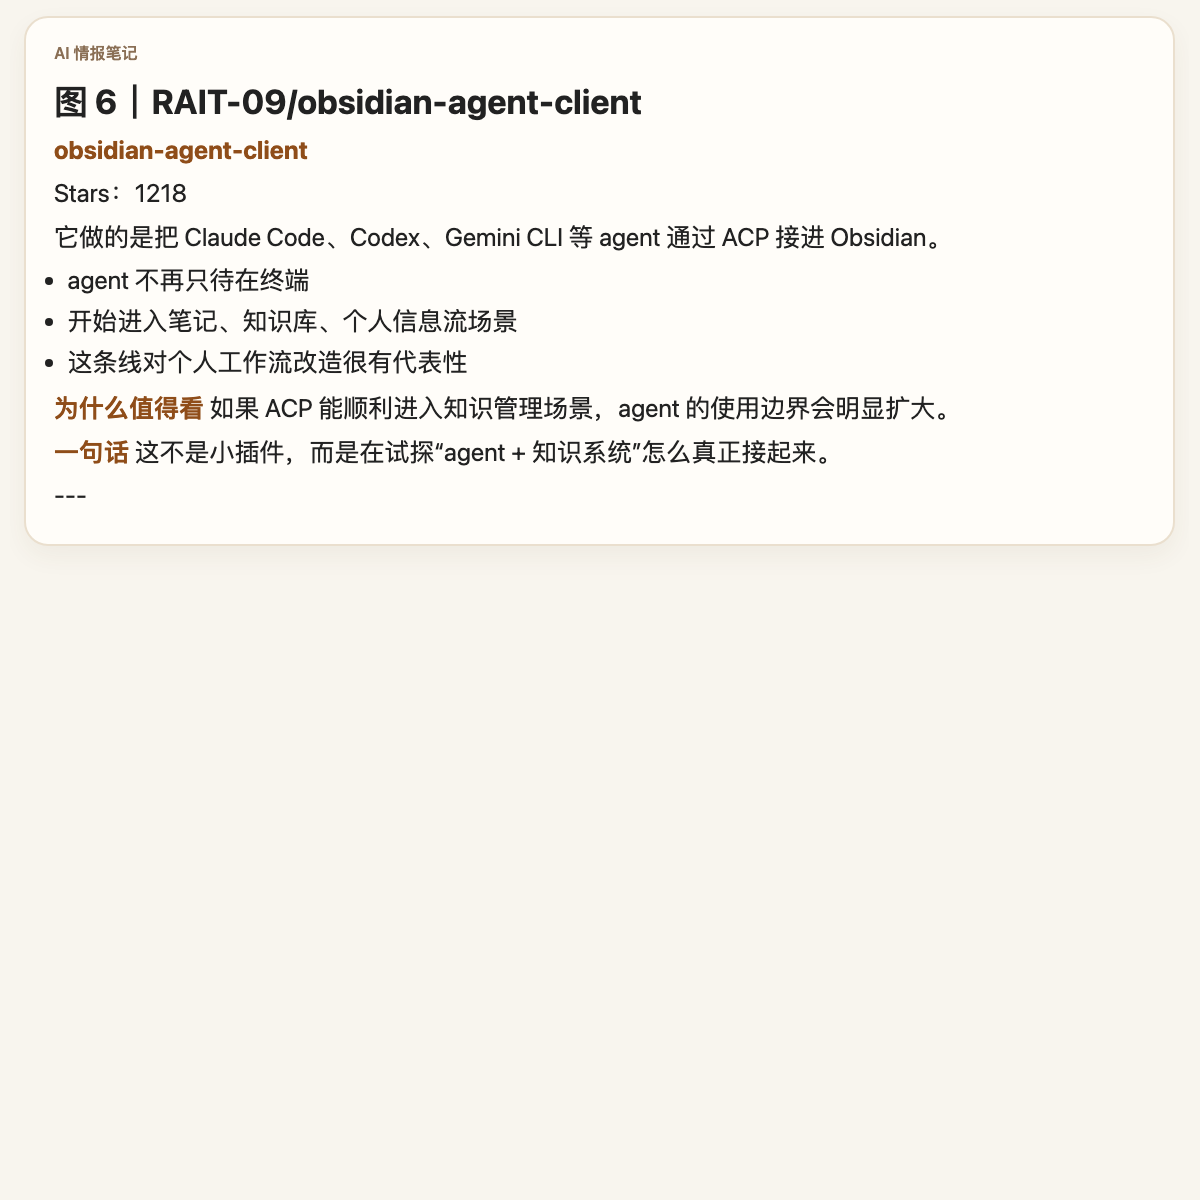
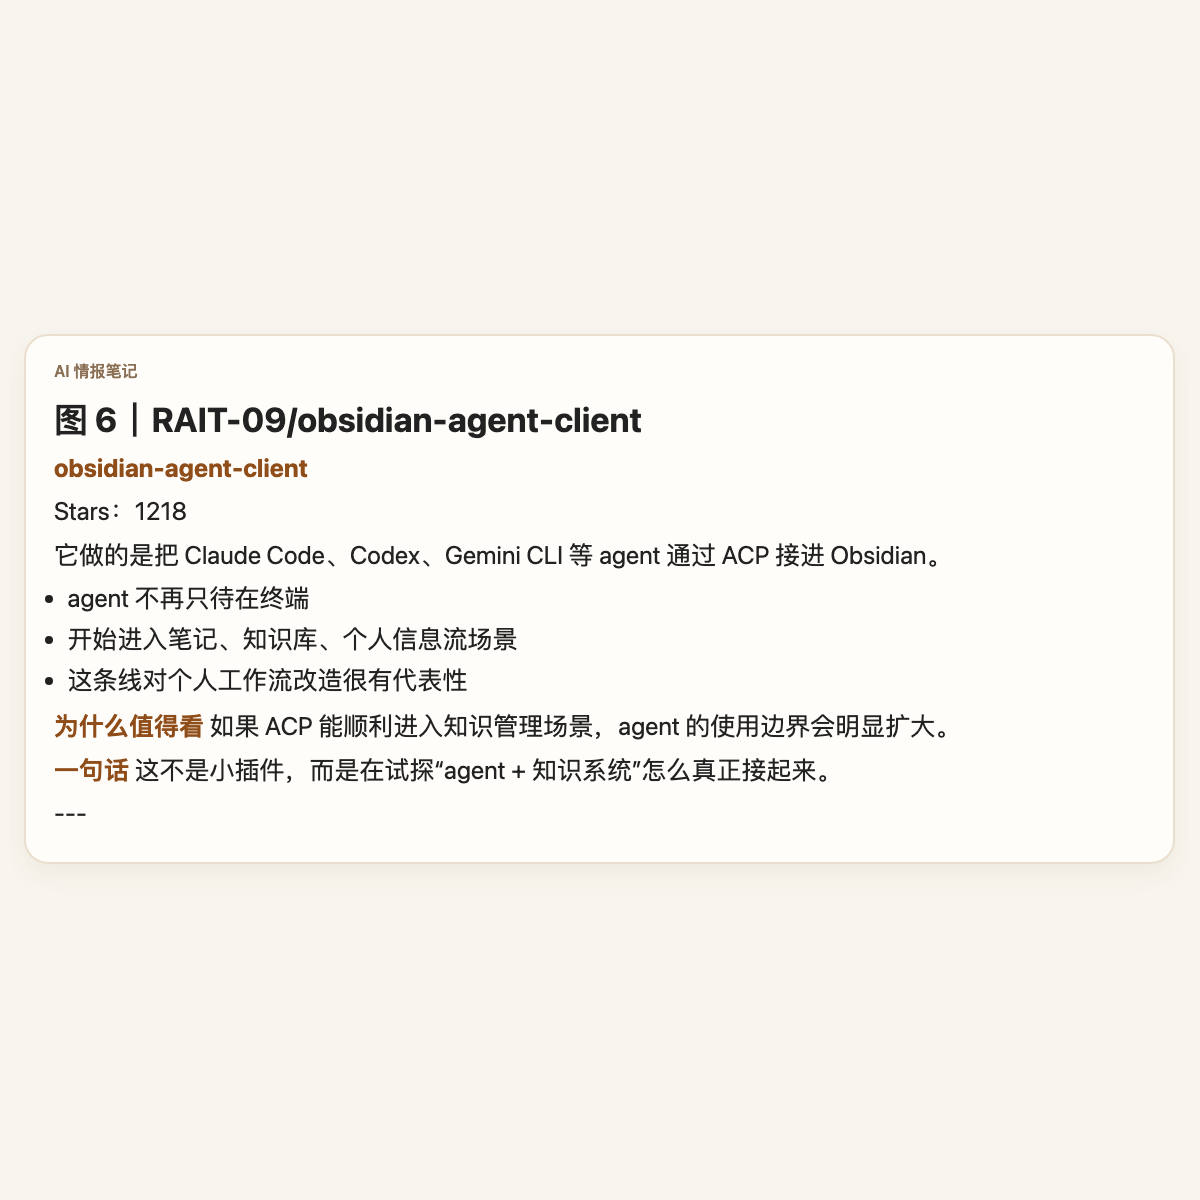
Center GitHub card content vertically

Changed region(s): [[0.0308, 0.0308, 0.7708, 0.6475], [0.37, 0.4317, 0.7708, 0.4933], [0.37, 0.185, 0.7708, 0.2158]]

diff --git a/scripts/render_markdown_image.js b/scripts/render_markdown_image.js
@@ -120,7 +120,7 @@ async function main() {
   const body = markdownToHtml(md);
   const title = path.basename(input);
   const mode = process.argv.includes('--xhs') ? 'xhs' : 'default';
-  const html = mode === 'xhs' ? `<!doctype html><html lang="zh-CN"><head><meta charset="UTF-8" /><meta name="viewport" content="width=device-width, initial-scale=1.0" /><title>${escapeHtml(title)}</title><style>:root{--bg:#f8f5ee;--paper:#fffdf9;--text:#222;--muted:#8a6f55;--border:#eadfce;--accent:#c9783a}*{box-sizing:border-box}body{margin:0;background:var(--bg);color:var(--text);font-family:-apple-system,BlinkMacSystemFont,"Segoe UI","PingFang SC","Hiragino Sans GB","Microsoft YaHei",sans-serif}.page{width:1179px;margin:0 auto;padding:16px 14px 18px}.card{background:var(--paper);border:2px solid var(--border);border-radius:24px;box-shadow:0 10px 26px rgba(90,60,30,.06);padding:24px 28px}.meta{font-size:16px;color:var(--muted);margin-bottom:8px;font-weight:600}h1,h2,h3,h4,h5,h6{margin:.5em 0 .25em;line-height:1.22}h1{font-size:46px}h2{font-size:34px}h3{font-size:28px}h4{font-size:24px}p,li,blockquote,pre{font-size:25px;line-height:1.52}p{margin:.22em 0}ul{margin:.12em 0 .5em .85em;padding:0}li{margin:.12em 0}blockquote{margin:.45em 0;padding:12px 14px;border-left:6px solid var(--accent);background:#fff5eb;color:#5b4028;border-radius:0 12px 12px 0}code{background:#f7efe4;border:1px solid #eadfce;border-radius:6px;padding:1px 6px;font-size:.86em;font-family:ui-monospace,SFMono-Regular,Menlo,monospace}pre{white-space:pre-wrap;word-break:break-word;background:#3b2b1f;color:#f8efe7;padding:14px 16px;border-radius:14px;overflow:hidden}pre code{background:transparent;border:0;padding:0;color:inherit}a{color:#b8662b;text-decoration:none}strong{color:#8f4d19}</style></head><body><div class="page"><div class="card"><div class="meta">AI 情报笔记</div>${body}</div></div></body></html>` : `<!doctype html><html lang="zh-CN"><head><meta charset="UTF-8" /><meta name="viewport" content="width=device-width, initial-scale=1.0" /><title>${escapeHtml(title)}</title><style>:root{--bg:#f5f7fb;--paper:#ffffff;--text:#18212f;--muted:#5f6b7a;--border:#e5e9f0;--accent:#2563eb}*{box-sizing:border-box}body{margin:0;background:linear-gradient(180deg,#eef4ff 0%,var(--bg) 100%);color:var(--text);font-family:-apple-system,BlinkMacSystemFont,"Segoe UI","PingFang SC","Hiragino Sans GB","Microsoft YaHei",sans-serif}.page{width:1200px;margin:0 auto;padding:48px}.card{background:var(--paper);border:1px solid var(--border);border-radius:24px;box-shadow:0 18px 50px rgba(15,23,42,.08);padding:52px 60px}.meta{font-size:18px;color:var(--muted);margin-bottom:18px}h1,h2,h3,h4,h5,h6{margin:1.1em 0 .55em;line-height:1.3}h1{font-size:42px}h2{font-size:32px;border-top:1px solid var(--border);padding-top:22px}h3{font-size:26px}h4{font-size:22px}p,li,blockquote,pre{font-size:22px;line-height:1.75}p{margin:.5em 0}ul{margin:.3em 0 1em 1.2em;padding:0}li{margin:.25em 0}blockquote{margin:1em 0;padding:16px 20px;border-left:6px solid var(--accent);background:#f8fbff;color:#24364d;border-radius:0 12px 12px 0}code{background:#f1f5f9;border:1px solid #e2e8f0;border-radius:8px;padding:2px 8px;font-size:.9em;font-family:ui-monospace,SFMono-Regular,Menlo,monospace}pre{white-space:pre-wrap;word-break:break-word;background:#0f172a;color:#e2e8f0;padding:18px 22px;border-radius:16px;overflow:hidden}pre code{background:transparent;border:0;padding:0;color:inherit}a{color:var(--accent);text-decoration:none}</style></head><body><div class="page"><div class="card"><div class="meta">Markdown 图片副本 · ${escapeHtml(title)}</div>${body}</div></div></body></html>`;
+  const html = mode === 'xhs' ? `<!doctype html><html lang="zh-CN"><head><meta charset="UTF-8" /><meta name="viewport" content="width=device-width, initial-scale=1.0" /><title>${escapeHtml(title)}</title><style>:root{--bg:#f8f5ee;--paper:#fffdf9;--text:#222;--muted:#8a6f55;--border:#eadfce;--accent:#c9783a}*{box-sizing:border-box}body{margin:0;background:var(--bg);color:var(--text);font-family:-apple-system,BlinkMacSystemFont,"Segoe UI","PingFang SC","Hiragino Sans GB","Microsoft YaHei",sans-serif}.page{width:1179px;min-height:1200px;margin:0 auto;padding:16px 14px 18px;display:flex;align-items:center}.card{width:100%;background:var(--paper);border:2px solid var(--border);border-radius:24px;box-shadow:0 10px 26px rgba(90,60,30,.06);padding:24px 28px}.meta{font-size:16px;color:var(--muted);margin-bottom:8px;font-weight:600}h1,h2,h3,h4,h5,h6{margin:.5em 0 .25em;line-height:1.22}h1{font-size:46px}h2{font-size:34px}h3{font-size:28px}h4{font-size:24px}p,li,blockquote,pre{font-size:25px;line-height:1.52}p{margin:.22em 0}ul{margin:.12em 0 .5em .85em;padding:0}li{margin:.12em 0}blockquote{margin:.45em 0;padding:12px 14px;border-left:6px solid var(--accent);background:#fff5eb;color:#5b4028;border-radius:0 12px 12px 0}code{background:#f7efe4;border:1px solid #eadfce;border-radius:6px;padding:1px 6px;font-size:.86em;font-family:ui-monospace,SFMono-Regular,Menlo,monospace}pre{white-space:pre-wrap;word-break:break-word;background:#3b2b1f;color:#f8efe7;padding:14px 16px;border-radius:14px;overflow:hidden}pre code{background:transparent;border:0;padding:0;color:inherit}a{color:#b8662b;text-decoration:none}strong{color:#8f4d19}</style></head><body><div class="page"><div class="card"><div class="meta">AI 情报笔记</div>${body}</div></div></body></html>` : `<!doctype html><html lang="zh-CN"><head><meta charset="UTF-8" /><meta name="viewport" content="width=device-width, initial-scale=1.0" /><title>${escapeHtml(title)}</title><style>:root{--bg:#f5f7fb;--paper:#ffffff;--text:#18212f;--muted:#5f6b7a;--border:#e5e9f0;--accent:#2563eb}*{box-sizing:border-box}body{margin:0;background:linear-gradient(180deg,#eef4ff 0%,var(--bg) 100%);color:var(--text);font-family:-apple-system,BlinkMacSystemFont,"Segoe UI","PingFang SC","Hiragino Sans GB","Microsoft YaHei",sans-serif}.page{width:1200px;margin:0 auto;padding:48px}.card{background:var(--paper);border:1px solid var(--border);border-radius:24px;box-shadow:0 18px 50px rgba(15,23,42,.08);padding:52px 60px}.meta{font-size:18px;color:var(--muted);margin-bottom:18px}h1,h2,h3,h4,h5,h6{margin:1.1em 0 .55em;line-height:1.3}h1{font-size:42px}h2{font-size:32px;border-top:1px solid var(--border);padding-top:22px}h3{font-size:26px}h4{font-size:22px}p,li,blockquote,pre{font-size:22px;line-height:1.75}p{margin:.5em 0}ul{margin:.3em 0 1em 1.2em;padding:0}li{margin:.25em 0}blockquote{margin:1em 0;padding:16px 20px;border-left:6px solid var(--accent);background:#f8fbff;color:#24364d;border-radius:0 12px 12px 0}code{background:#f1f5f9;border:1px solid #e2e8f0;border-radius:8px;padding:2px 8px;font-size:.9em;font-family:ui-monospace,SFMono-Regular,Menlo,monospace}pre{white-space:pre-wrap;word-break:break-word;background:#0f172a;color:#e2e8f0;padding:18px 22px;border-radius:16px;overflow:hidden}pre code{background:transparent;border:0;padding:0;color:inherit}a{color:var(--accent);text-decoration:none}</style></head><body><div class="page"><div class="card"><div class="meta">Markdown 图片副本 · ${escapeHtml(title)}</div>${body}</div></div></body></html>`;
 
   const tmpHtml = path.join(path.dirname(output), `.${path.basename(output)}.tmp.html`);
   fs.writeFileSync(tmpHtml, html, 'utf8');
